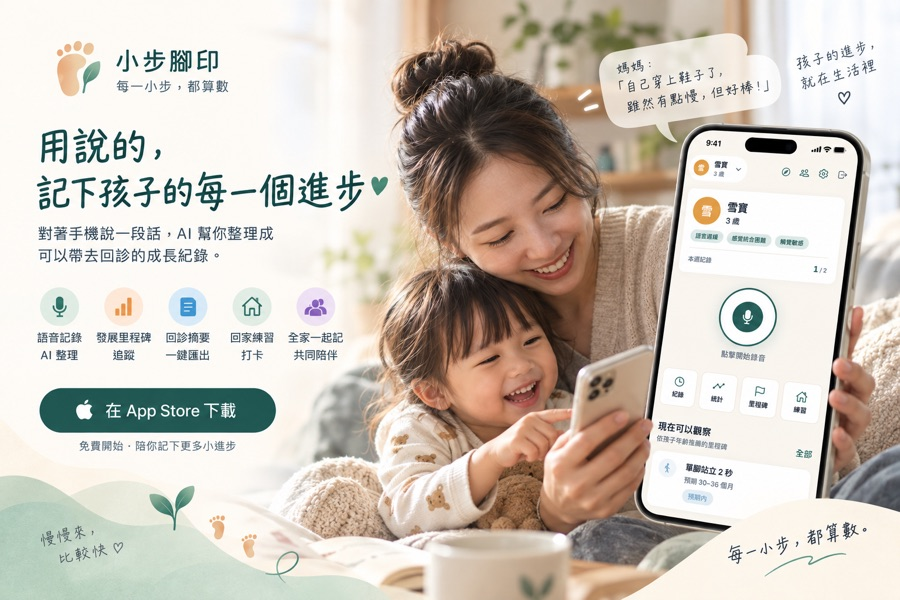
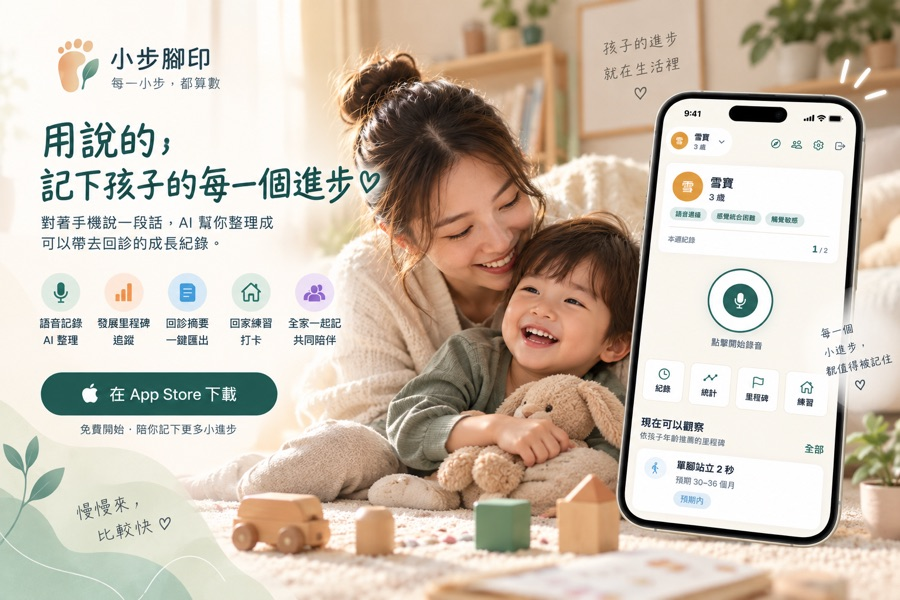
官網主視覺換新版海報，下載鈕疊層位置跟著調

diff --git a/style.css b/style.css
@@ -110,7 +110,7 @@ h3 { font-size: 1.12rem; color: var(--ink); }
 .poster img { width: 100%; height: auto; }
 /* 海報上「在 App Store 下載」鈕的位置（百分比，對應 1536×1024 原圖） */
 .poster-cta {
-  position: absolute; left: 4.2%; top: 64.6%; width: 27%; height: 8.2%;
+  position: absolute; left: 4.2%; top: 61.5%; width: 27%; height: 8.2%;
   border-radius: 999px; cursor: pointer;
   transition: box-shadow .15s ease;
 }
